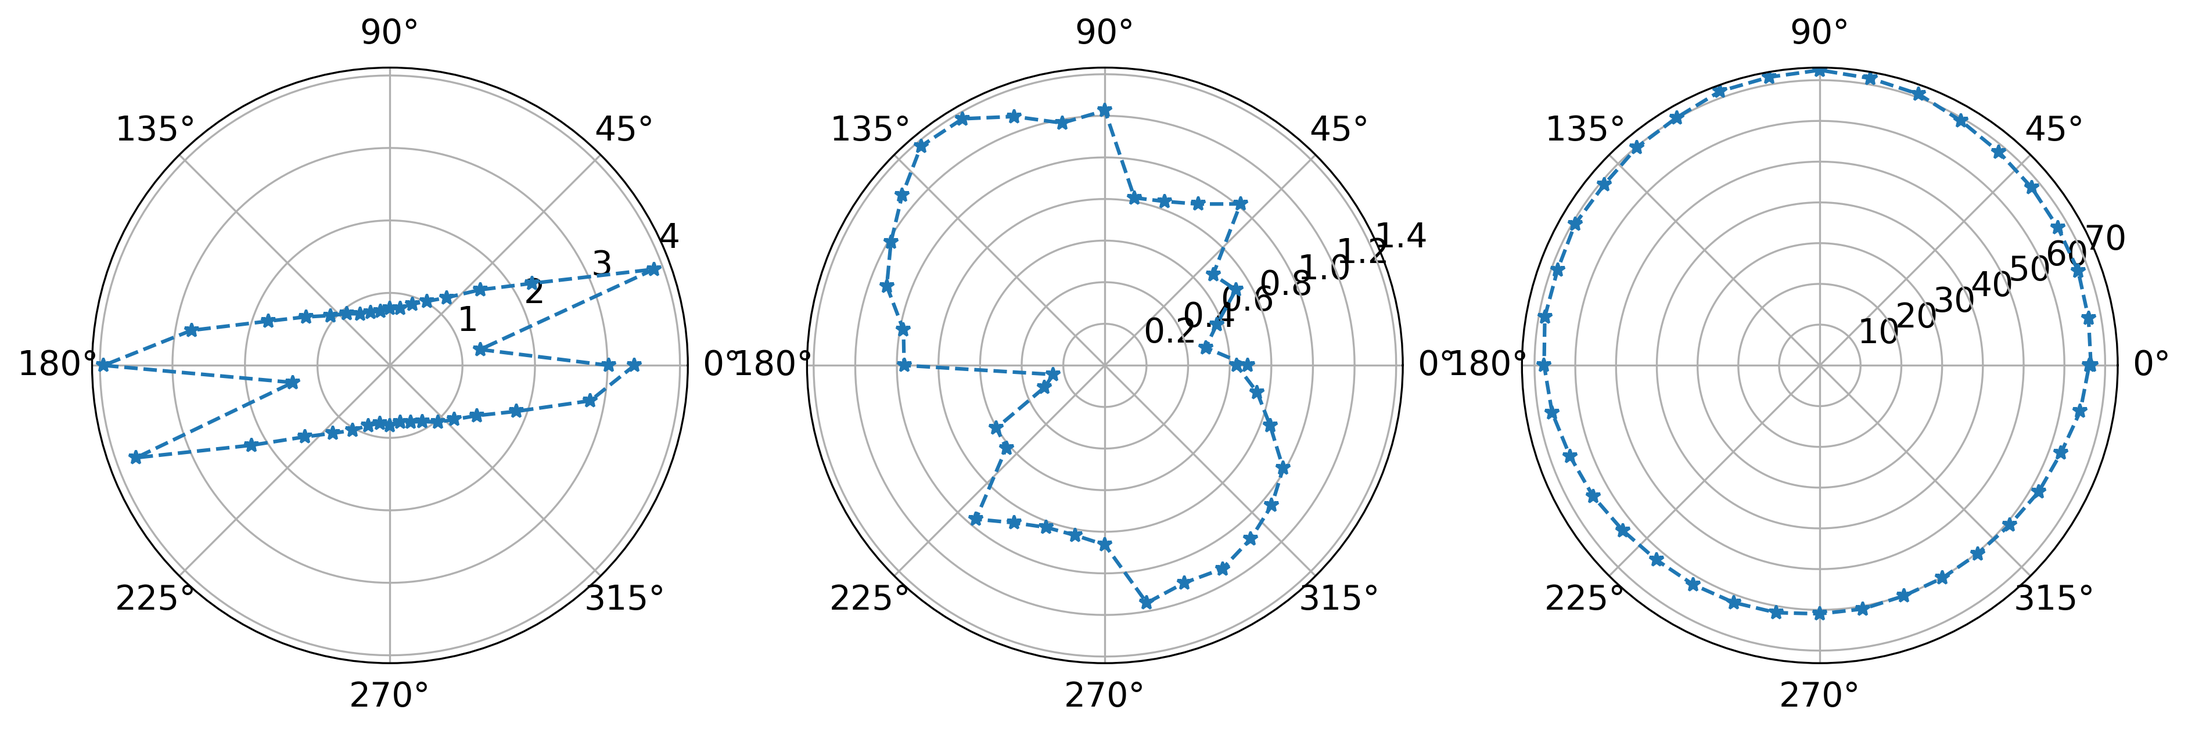
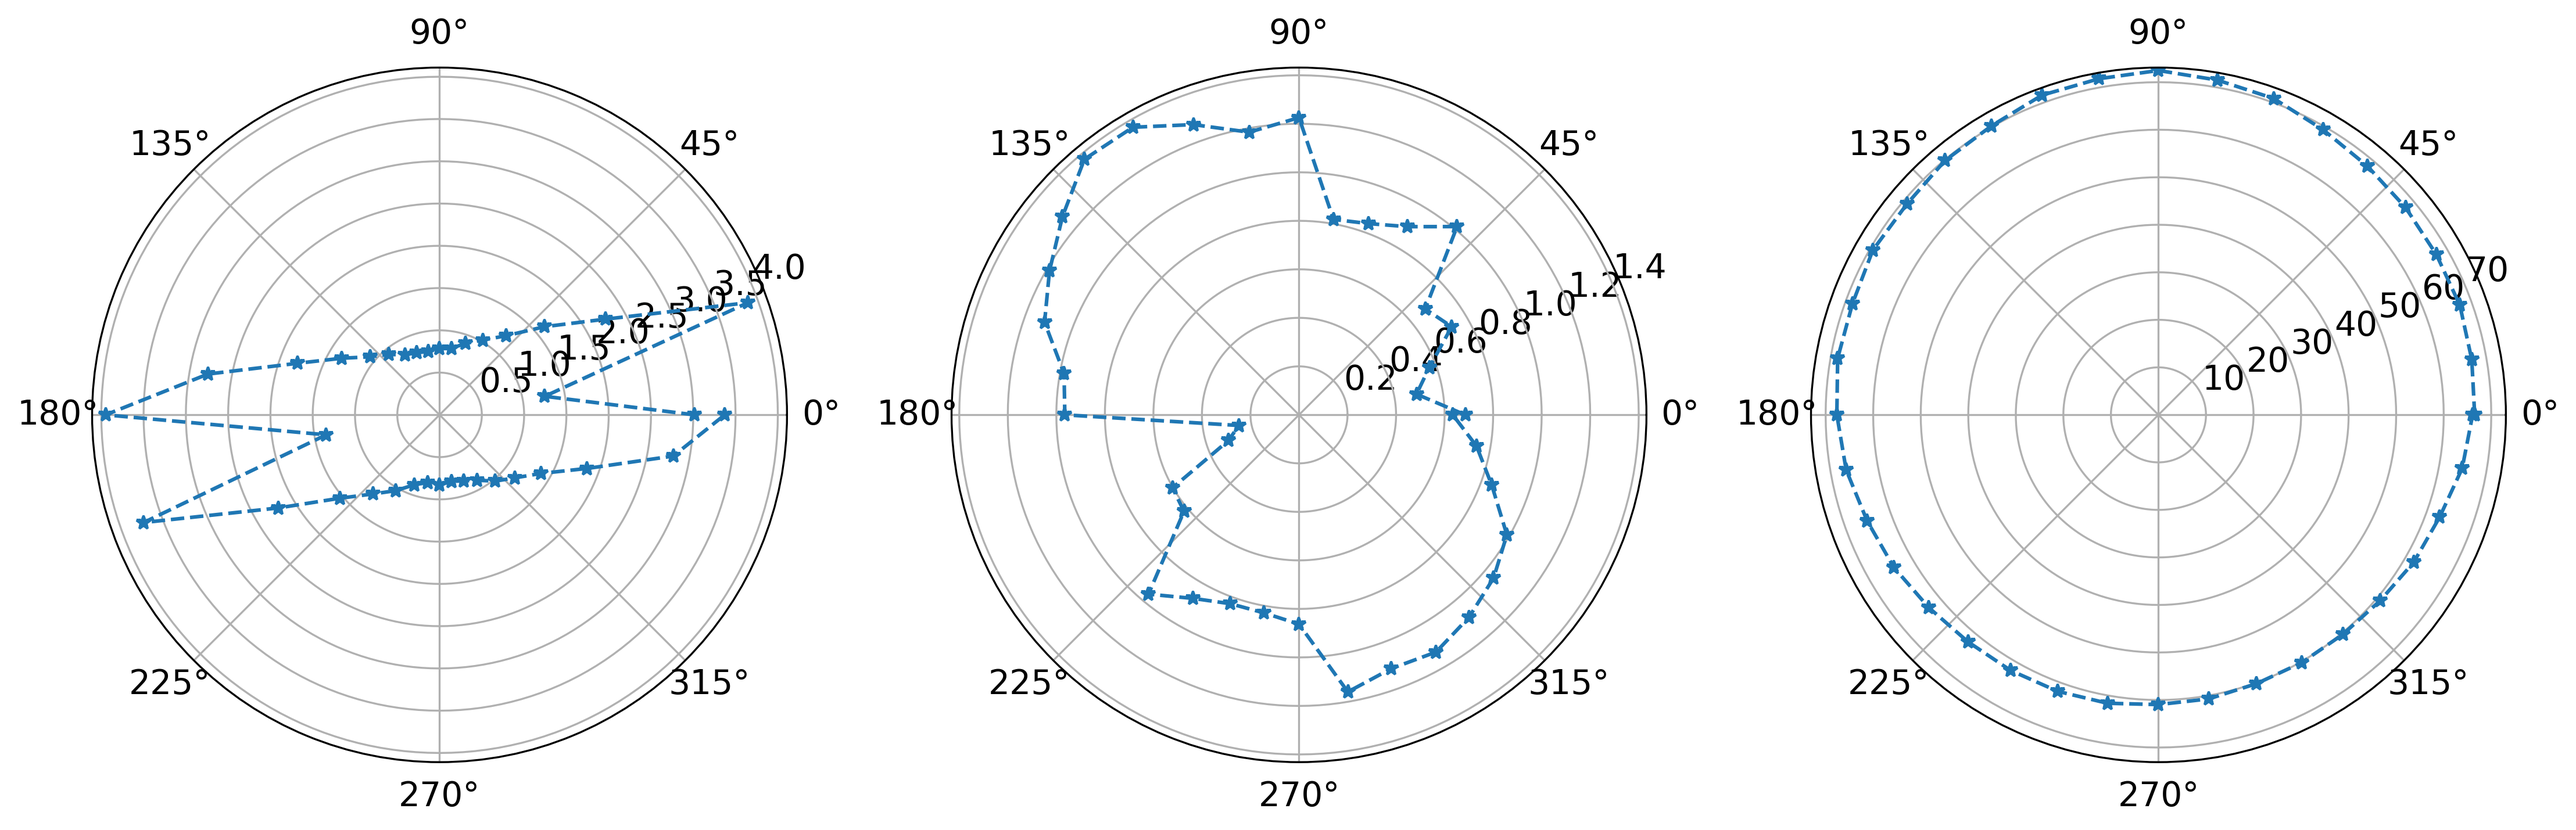
final commit

diff --git a/MOKE/MasterPlotCoercive.py b/MOKE/MasterPlotCoercive.py
@@ -20,5 +20,6 @@ ax3 = plt.subplot(133, projection='polar')
 fig, ax1 = CAZ.CoAlZr(fig,ax1,CoercField=True)
 fig, ax2 = PY300.PY300C(fig,ax2,CoercField=True)
 fig, ax3 = PY400.PY400C(fig,ax3,CoercField=True)
+fig.tight_layout()#lagar spacing milli subplot
 plt.savefig("CoercFieldAllThree.png",format="png",dpi=300,bbox_inches="tight")
 plt.show()

diff --git a/MOKE/MasterPlotMagRem.py b/MOKE/MasterPlotMagRem.py
@@ -18,5 +18,6 @@ ax3 = plt.subplot(133, projection='polar')
 fig, ax1 = CAZ.CoAlZr(fig,ax1,MagRemBool=True)
 fig, ax2 = PY300.PY300C(fig,ax2,MagRemBool=True)
 fig, ax3 = PY400.PY400C(fig,ax3,MagRemBool=True)
+fig.tight_layout()#lagar spacing milli subplot
 plt.savefig("MagRemAllThree.png",format="png",dpi=300,bbox_inches="tight")
 plt.show()
